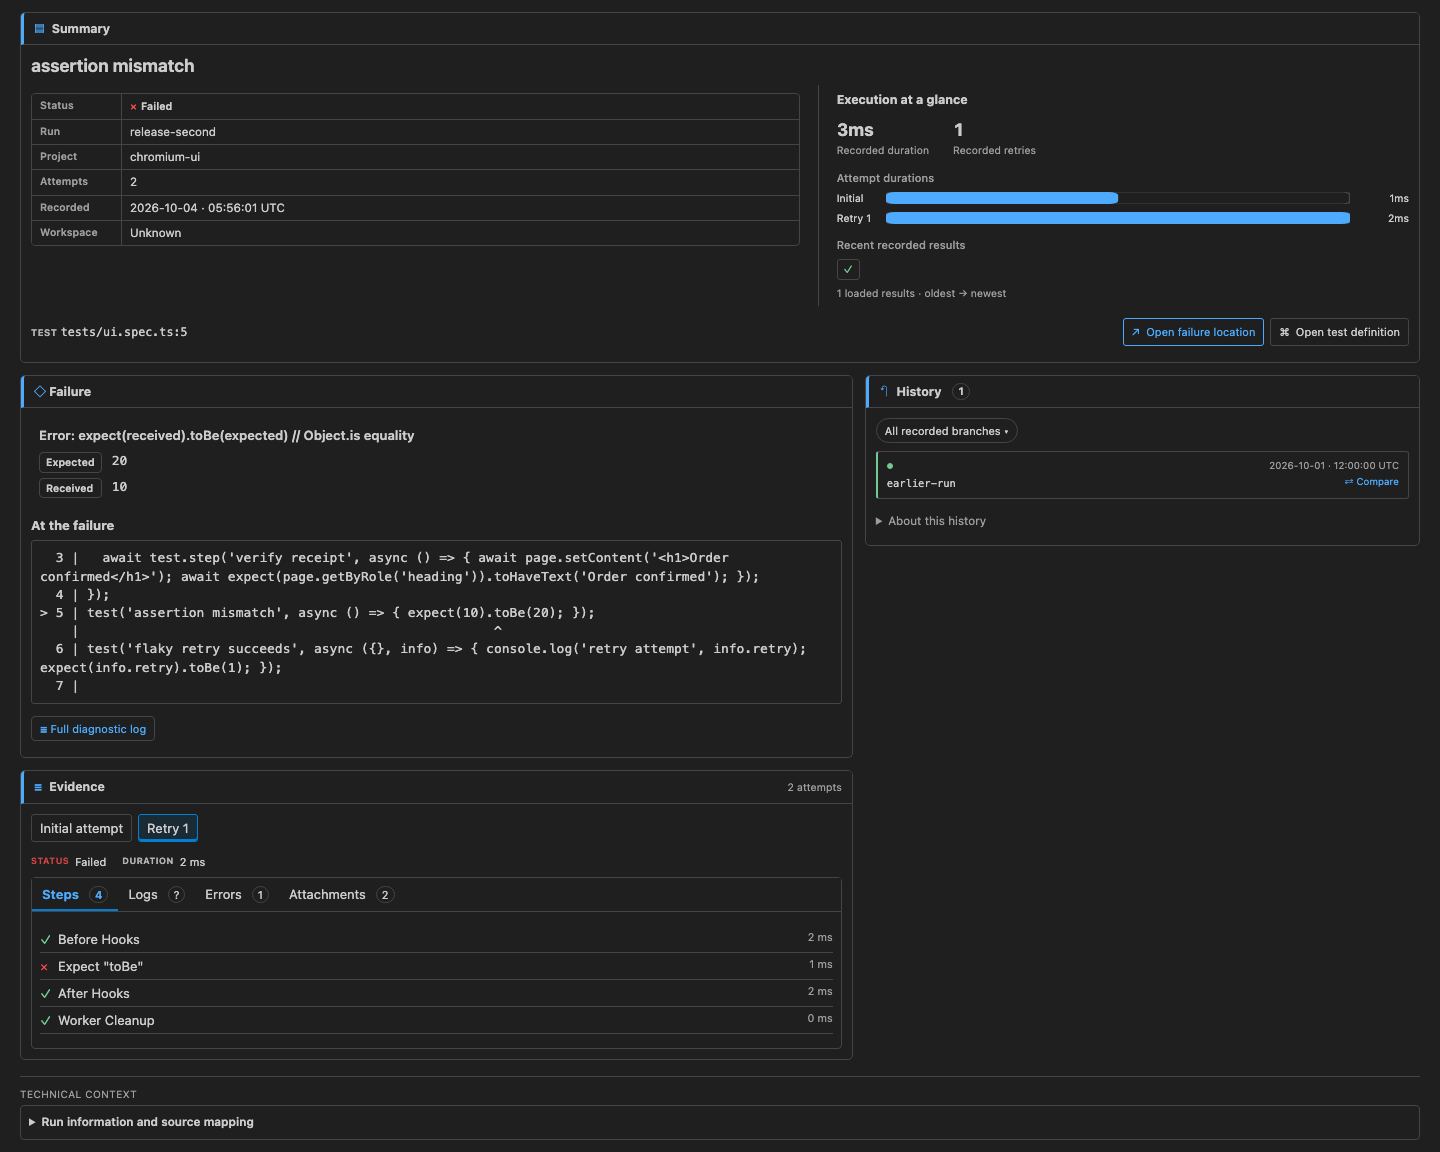
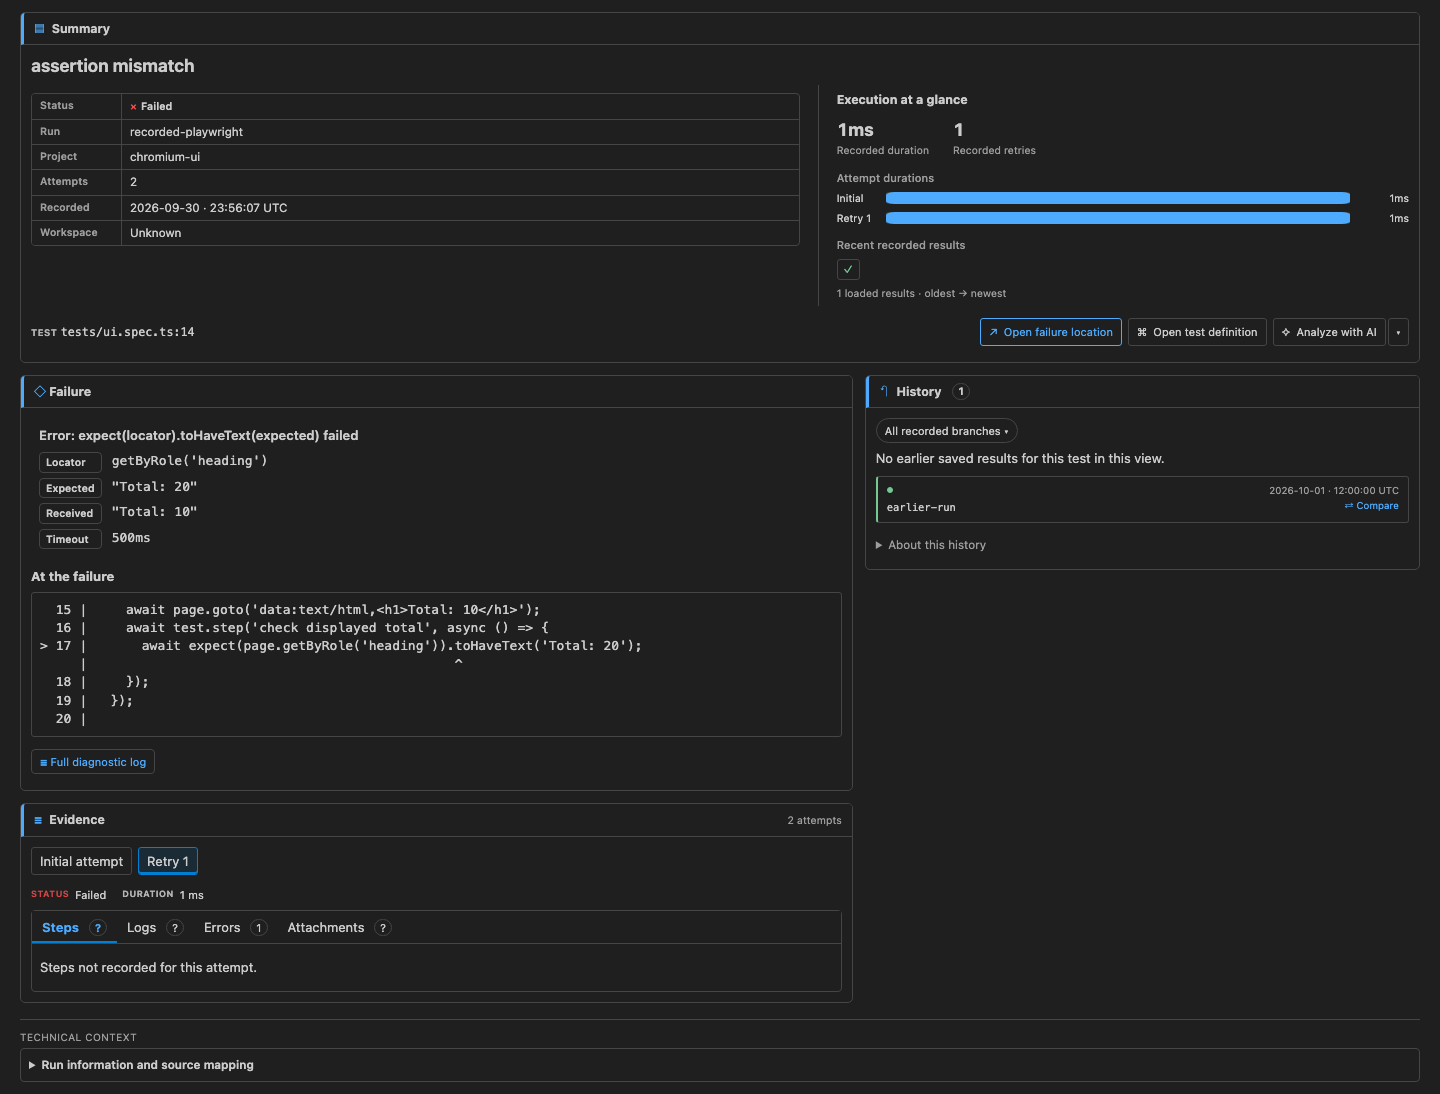
chore(release): prepare reporter 0.3.1 and extension 0.2.15

diff --git a/test/model.test.ts b/test/model.test.ts
@@ -18,7 +18,7 @@ describe('buildReportModel', () => {
     const base = sample();
     const before = { ...buildReportModel({ run: run('previous'), summaries: [] }).history[0]!, runId: 'previous', startedAt: '2025-01-01T00:00:00.000Z', durationMs: 1000 };
     const model = buildReportModel({ run: base, summaries: [before], previous: before, comparison });
-    expect(model.generator).toEqual({ name: 'playwright-logbook', version: '0.3.0' });
+    expect(model.generator).toEqual({ name: 'playwright-logbook', version: '0.3.1' });
     expect(model.summaryMarkdown).toBe(renderMarkdownSummary(model));
     expect(model.delta).toMatchObject({ previousRunId: 'previous', failed: 2, flaky: 1, durationPct: 20 });
     expect(model.projects).toEqual([{ name: 'alpha', total: 3, passed: 1, failed: 1, flaky: 1, skipped: 0, durationMs: 60 }]);

diff --git a/src/version.ts b/src/version.ts
@@ -1,1 +1,1 @@
-export const VERSION = '0.3.0';
+export const VERSION = '0.3.1';

diff --git a/docs/RELEASE-VSCODE.md b/docs/RELEASE-VSCODE.md
@@ -1,106 +1,68 @@
-# Release 0.3.0 reporter and 0.2.10 VS Code extension
+# Release 0.3.1 reporter and 0.2.15 VS Code extension
 
-The reporter and extension are independently versioned. The documented CI bundle
-workflow requires reporter 0.3.0 or newer. This extension update does not require
-a new reporter release.
+The packages are independently versioned. Reporter 0.3.1 adds the terminal
+`analyze` command. Extension 0.2.15 adds the compact Analyze with AI action,
+installed-agent selection and unsent prompt/context insertion. The extension
+bundles its task builder; existing reporter 0.3.0 records remain supported.
 
-## Prepared release
+Version 0.2.15 follows the local development packages 0.2.11–0.2.14 so those
+installations can update normally. Publish on the regular Marketplace channel.
+Desktop local workspaces on macOS, Windows and Linux remain the release scope.
+Model selection, review, submission and answers remain in the chosen agent UI.
+Full screen-reader review and direct provider integration remain deferred.
 
-- Reporter: `playwright-logbook@0.3.0`.
-- Extension: `krishnapollu.playwright-logbook-vscode@0.2.10`.
-- Marketplace publisher: [krishnapollu](https://marketplace.visualstudio.com/manage/publishers/krishnapollu).
-- Publish as a regular release: the extension manifest omits `preview`. Use the
-  ordinary update channel without `--pre-release`. Version 0.2.10 replaces the
-  published 0.2.9 preview; the Marketplace label changes after upload.
-- Desktop local workspaces on macOS, Windows and Linux are the release scope,
-  backed by the six passing packaged-host CI combinations below. SSH, containers,
-  virtual workspaces and web VS Code remain unsupported. Full screen-reader review is ongoing; automated
-  accessibility-tree and keyboard-tab checks do not establish screen-reader support.
-
-The checks recorded below originally validated 0.2.9. Rebuild, inspect and test the
-0.2.10 VSIX before uploading; the older artifact hashes do not validate this package.
-The reporter version stays at 0.3.0 and does not need republishing if already live.
-
-## Preparation checks
-
-- [x] Set the real publisher, versions, branding, keywords and support links.
-- [x] Render the README's existing logo as the 256 × 256 Marketplace PNG.
-- [x] Finalize changelogs, Marketplace installation instructions and reporter 0.3.0
-  minimum for CI export. Include npm README-linked guides and images in the tarball.
-- [x] Include license notices for every third-party dependency in the extension bundle.
-- [x] Add reviewed screenshots of the production overview and investigation panels,
-  rendered using sample Playwright records, without local absolute paths.
-- [x] Confirm the public repository and default branch. Release content is pushed
-  with the release preparation commit so Marketplace image/document links resolve.
-- [x] Install the packed npm artifact in an external project: verify CJS reporter,
-  ESM reader/bundle entrypoints, browser collection, retries, trace export, history
-  export, dry-run import, duplicate handling, blended history and relative source paths.
-- [x] Verify the extension panels in light/dark/both high-contrast palettes at
-  360, 768 and 1440 px, including keyboard tabs and accessibility semantics.
-- [x] Add packaged-extension CI on macOS/Linux/Windows against VS Code 1.95.3 and
-  stable, plus a clean packed-reporter smoke job. Packaging uses pinned vsce 4.0.0.
-- [x] Confirm both GitHub workflows pass for release code and host readiness fix
-  `a136492`: [CI](https://github.com/krishnapollu/playwright-logbook/actions/runs/37182180933)
-  and [Release artifacts](https://github.com/krishnapollu/playwright-logbook/actions/runs/37182180950).
-  All six packaged editor jobs passed across macOS/Linux/Windows at minimum/stable
-  versions, together with the clean packed-reporter and panel checks.
-- [x] Document uninstalling the old `logbook-local-preview` extension before
-  installing the Marketplace publisher identity. This final documentation change
-  does not alter the CI-verified runtime; final VSIX packaging is rechecked locally.
-
-Local validation commands:
+## Validate the exact artifacts
 
 ```sh
 npm run check
 npm run test:e2e
 npm run test:release
 npm run test:release:views
-npm run test:vscode -- --vsix
+npm run test:vscode -- --vsix --vscode-version 1.95.3
 npm run test:vscode -- --vsix --vscode-version 1.140.0
 ```
 
-The packed reporter smoke creates `dist/releases/playwright-logbook-0.3.0.tgz`.
-It installs the tarball rather than using repository source or workspace links.
-The editor host accepts `--record FILE` for records generated by that installed
-reporter. All host profiles and fixtures are disposable. The original normal
-editor profile is untouched.
+The packed reporter smoke verifies the installed CJS/ESM entrypoints, real
+Playwright collection, retry/trace artifacts, export/import/history and the
+installed `analyze` command, including deterministic full prompt/context and
+unchanged recordings. The panel check covers four themes and three widths.
+The packaged editor journey verifies full task insertion into a webview input,
+zero submissions and unchanged source, as well as the existing investigation
+and CI-import workflows. GitHub Release artifacts CI covers all six packaged
+editor combinations across macOS/Linux/Windows and minimum/stable versions.
 
-Package the extension from `packages/vscode`:
+Package from `packages/vscode` after rebuilding and refreshing screenshots:
 
 ```sh
-npm exec --yes --package=@vscode/vsce@4.0.0 -- vsce package --no-dependencies --out dist/playwright-logbook-vscode-0.2.10.vsix --baseContentUrl https://github.com/krishnapollu/playwright-logbook/tree/main/packages/vscode --baseImagesUrl https://raw.githubusercontent.com/krishnapollu/playwright-logbook/main/packages/vscode
+npm exec --yes --package=@vscode/vsce@4.0.0 -- vsce package --no-dependencies --out dist/playwright-logbook-vscode-0.2.15.vsix --baseContentUrl https://github.com/krishnapollu/playwright-logbook/tree/main/packages/vscode --baseImagesUrl https://raw.githubusercontent.com/krishnapollu/playwright-logbook/main/packages/vscode
 ```
 
-## Publish the verified artifacts
-
-AGENTS.md says "Never run `npm publish`." The maintainer performs publication.
-The release script reads `npm_pat` from `.env` (or the environment) and passes it
-to npm without writing a login file. From the repository root:
+Inspect the tarball/VSIX allowlists and compare packaged runtime bytes to the
+checked build. Store artifact hashes, sizes and validation results in
+`dist/releases/artifacts.json`. Verify before publishing:
 
 ```sh
 npm run release:publish -- --verify
+```
+
+## Publish
+
+The repository's default AGENTS.md policy says "Never run `npm publish`."
+For this release, the maintainer explicitly authorized publishing to GitHub,
+npm and the Marketplace. Do not infer that authorization for future releases.
+The publish script reads `npm_pat` from `.env` or the environment without
+printing it or writing a login file. After release code is pushed and both
+GitHub workflows pass, publish the verified tarball:
+
+```sh
 npm run release:publish
 ```
 
-The command checks both artifact hashes, versions, npm authentication and whether the
-reporter version is already published. It then publishes the verified npm tarball
-without rebuilding it. It does **not** upload the VSIX. See the
-[npm publishing command](https://docs.npmjs.com/cli/v11/commands/npm-publish/).
+Upload `packages/vscode/dist/playwright-logbook-vscode-0.2.15.vsix` using the
+existing Playwright Logbook extension's **Update** action on the
+[publisher management page](https://marketplace.visualstudio.com/manage/publishers/krishnapollu).
+Do not publish the development VSIX. Confirm Marketplace validation completes.
 
-Upload `packages/vscode/dist/playwright-logbook-vscode-0.2.10.vsix` through
-the publisher management page: open the existing **Playwright Logbook** extension,
-choose **Update**, select the VSIX and review the listing before upload. Manual
-upload uses your Microsoft sign-in and requires no CLI publishing token.
-See the [official publishing guide](https://code.visualstudio.com/api/working-with-extensions/publishing-extension).
-
-## After publication
-
-- Install `playwright-logbook@0.3.0` from npm in a clean project and repeat the
-  collection/export smoke. Install the extension from Marketplace in a clean
-  profile; import the bundle, inspect history and open source.
-- Record the public package/Marketplace versions and create release tags/notes.
-- If publication fails, preserve the validated artifacts and diagnose the error.
-  Published versions cannot be reused; do not bump versions blindly.
-
-Preparation and `--verify` perform no publication. Only the maintainer-run
-`npm run release:publish` publishes the npm package; Marketplace upload is separate.
+Verify npm 0.3.1 and Marketplace 0.2.15 from the public registries, repeat the
+installed-package smoke, and record GitHub release tags/notes with the exact
+verified artifacts. No publication step rebuilds an artifact.

diff --git a/docs/PROGRESS.md b/docs/PROGRESS.md
@@ -828,3 +828,23 @@ runs need a working networked Playwright environment (see `docs/DECISIONS.md`).
   Isolated manifest version 0.2.14; source remains Marketplace 0.2.10. Packaged
   extension/webview bytes match the checked build. No publication, new dependencies,
   golden-test edits or live agent submissions.
+
+### Reporter 0.3.1 and extension 0.2.15 release preparation
+
+- [x] Bump reporter/CLI and extension versions, finalize release notes and public
+  command instructions, refresh production-panel screenshots, and prepare the
+  inspected npm tarball and regular-channel VSIX. Extension 0.2.15 follows the
+  locally tested 0.2.11–0.2.14 development packages.
+- Listed checks: `npm run check`, `npm run test:e2e`, `npm run test:release`,
+  `npm run test:release:views`, and packaged editor journeys at VS Code 1.95.3
+  and 1.140.0. The packed npm smoke now validates the installed analyze command,
+  exact test evidence, response budget, deterministic output and unchanged records.
+- Done when output: full check `Test Files 40 passed (40)` and `Tests 201 passed
+  (201)`; browser `7 passed (3.5s)`; `Packed analyze CLI passed: exact execution,
+  bounded prompt/context, deterministic output and unchanged recording.`;
+  `Packed reporter smoke passed`; panel check passed across four themes/three
+  widths; both final VSIX editor journeys `Exit code: 0`.
+- Artifact inspection: npm 120 files, VSIX 14 files; versions and packaged runtime
+  match the checked build. README image URL rewriting is verified. SHA-256/size
+  manifest stored at `dist/releases/artifacts.json`. No development VSIX is used
+  for publication. GitHub CI and public registry verification follow this commit.

diff --git a/docs/CLI.md b/docs/CLI.md
@@ -20,8 +20,7 @@ limits, interrupted import recovery and CI recipes.
 
 `debug` does not contact a model or inspect attachment contents. It includes only stored evidence and marks missing capture data as unavailable. Redaction cannot detect every secret; review the output before sharing it with an AI provider or another person.
 
-`analyze` is available in the current repository build, beyond published reporter
-0.3.0. It prints the agent task and evidence; it does not produce an AI diagnosis,
+`analyze` requires reporter 0.3.1 or newer. It prints the agent task and evidence; it does not produce an AI diagnosis,
 invoke an agent or change run records. The default response instruction is at most
 200 words (`--max-words` accepts 50–1000). Response length is requested from the
 agent, not trimmed by Logbook. Ambiguous identities require `--project` and/or
@@ -34,7 +33,7 @@ adds a bounded excerpt from the current test file, labelled as potentially diffe
 from the recorded source. Review the prompt before submitting it. For example:
 
 ```sh
-node dist/cli/bin.js analyze --run latest --test TEST_ID --project chromium --repeat 0 --source --max-words 150
+npx playwright-logbook analyze --run latest --test TEST_ID --project chromium --repeat 0 --source --max-words 150
 ```
 
 `merge` discovers `shard-*.json` under each `--from` directory recursively. If no run ID is specified, it chooses the run with the latest shard end time, breaking ties by run ID. It rejects incompatible shards and duplicate shard numbers unless `--force` is set. An incomplete merge still writes output; `--fail-on-incomplete` then returns 5.

diff --git a/docs/DECISIONS.md b/docs/DECISIONS.md
@@ -33,3 +33,5 @@
 | 2026-10-04 | Does agent-window analysis need a dedicated test-detail section? | Use a compact Analyze with AI split button alongside source actions, a native agent picker and editor notifications. | User approved removing the section because the conversation lives in the agent's window. Remember choices per workspace folder; the main button reuses the choice and the arrow changes it without handing off. Removed agents require a new selection, and model controls remain in the agent UI. |
 
 | 2026-10-04 | Can analysis tasks appear directly in agent inputs? | Replace the copy-only fallback with explicit known input-focus commands and VS Code native webview paste; native chat retains its unsent draft API. | User requires the full prompt and context in chat, with submission left to the user. Installed-agent discovery remains dynamic; verified command contracts determine insertion support. Unknown panel openers cannot establish input focus and report an actionable failure. Never invoke an agent submit command. |
+
+| 2026-10-04 | Which versions publish the agent analysis workflow? | Reporter 0.3.1 and regular extension 0.2.15. | Reporter 0.3.0 and Marketplace 0.2.10 are already published. Extension 0.2.15 exceeds the installed 0.2.14 development package. The maintainer explicitly authorized GitHub, npm and Marketplace publication for this release. |

diff --git a/packages/vscode/README.md b/packages/vscode/README.md
@@ -82,7 +82,7 @@ show metadata; playback and trace viewing are not available in the extension.
 
 *Screenshots show the extension's panels with sample Playwright results.*
 
-### Analyze a test (development build)
+### Analyze a test
 
 The test summary places **✧ Analyze with AI ▾** beside the source actions.
 On first use, choose an installed coding-agent chat extension or native VS Code
@@ -115,8 +115,9 @@ Answers are requested in **at most 200 words**, with cause, supporting reference
 and next steps; the agent writes the concise answer, without client trimming.
 Cancel or change execution to discard an in-progress handoff.
 
-This feature and CLI command are in the repository development build;
-Marketplace 0.2.10 does not include them. Provider integration remains future work.
+Available in extension **0.2.15+**. The terminal `analyze` command requires
+reporter **0.3.1+**; the extension includes its own task builder. Provider
+integration remains future work.
 
 ### Framework loggers
 

diff --git a/README.md b/README.md
@@ -95,6 +95,7 @@ npx playwright-logbook flaky
 npx playwright-logbook summary --format markdown
 npx playwright-logbook report --run latest
 npx playwright-logbook debug --run latest --test <testId> --format markdown
+npx playwright-logbook analyze --run latest --test <testId> --source --max-words 200
 ```
 
 Use `--root <dir>` when running the CLI outside your Playwright project. See the [CLI reference](docs/CLI.md) for all commands and exit codes.

diff --git a/CHANGELOG.md b/CHANGELOG.md
@@ -1,5 +1,10 @@
 # Changelog
 
+## 0.3.1
+
+- Add `logbook analyze` to prepare a bounded investigation task for an exact test execution, with scoped history, optional current source and verified attachment references.
+- Request concise, evidence-backed answers from the coding agent; the command makes no model request and changes no run records.
+
 ## 0.3.0
 
 - Export portable ZIP run bundles with optional file evidence and earlier history.

diff --git a/packages/vscode/CHANGELOG.md b/packages/vscode/CHANGELOG.md
@@ -1,6 +1,6 @@
 # Changelog
 
-## Unreleased
+## 0.2.15
 
 - Add a compact Analyze with AI split button beside test source actions and
   Logbook: Analyze Selected Test. Remember the chosen agent per workspace folder;
